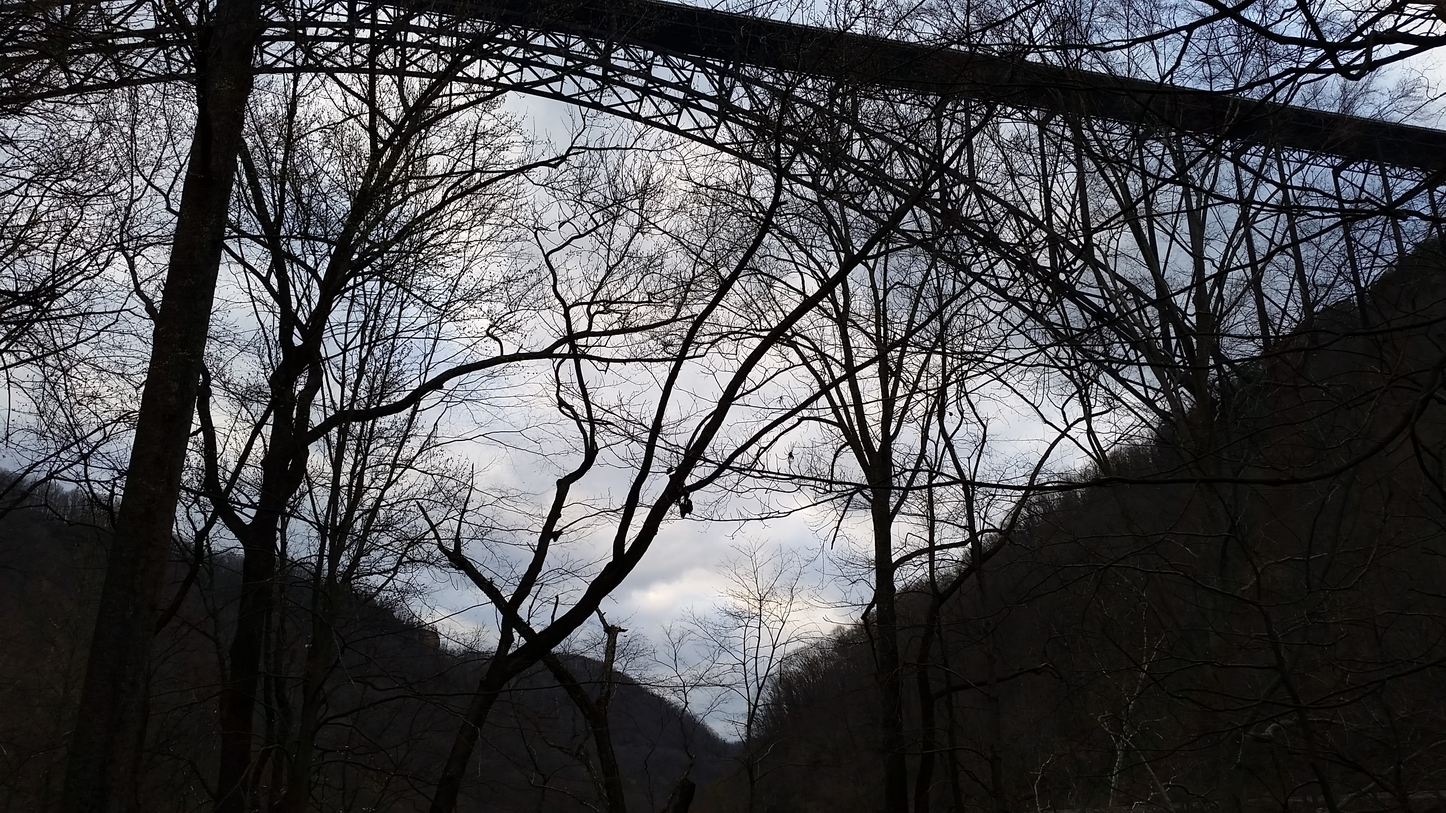
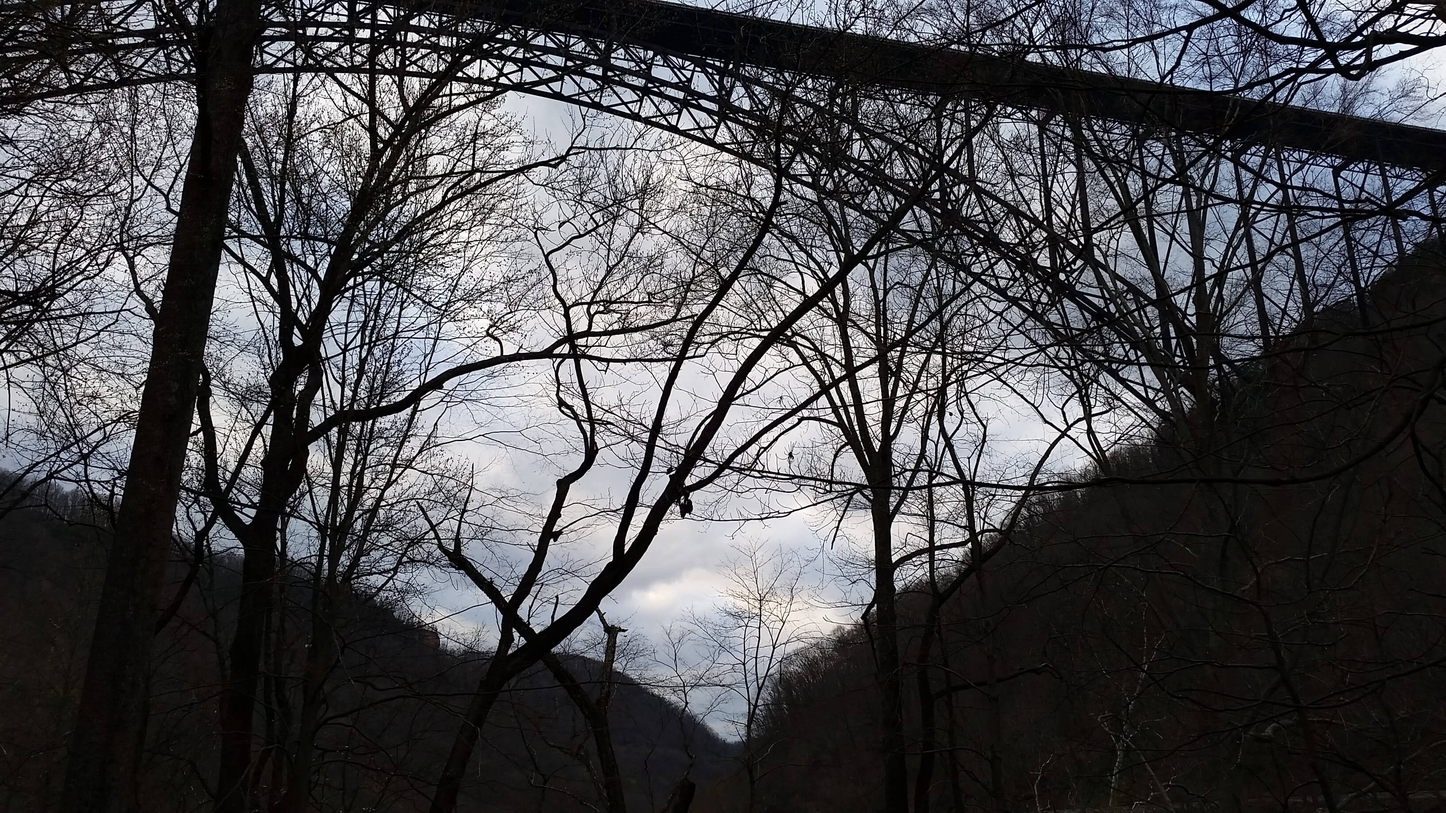
Add compressed bg image and update fingerprints

diff --git a/index.html b/index.html
@@ -7,7 +7,7 @@
 
   <link href="https://fonts.googleapis.com/css?family=Lato:300,400" rel="stylesheet">
   <link href="https://cdnjs.cloudflare.com/ajax/libs/normalize/3.0.3/normalize.min.css" rel="stylesheet">
-  <link href="./app.css?v=20200712150927" rel="stylesheet">
+  <link href="./app.css?v=20200712151803" rel="stylesheet">
 </head>
 <body>
   <main itemscope itemtype="https://schema.org/Person">

diff --git a/app.css b/app.css
@@ -8,7 +8,7 @@ html {
 }
 
 body {
-  background: url('bg.jpg?v=20200712150927') center center;
+  background: url('bg.jpg?v=20200712151803') center center;
   background-color: #fff;
   background-size: cover;
   color: #000;
